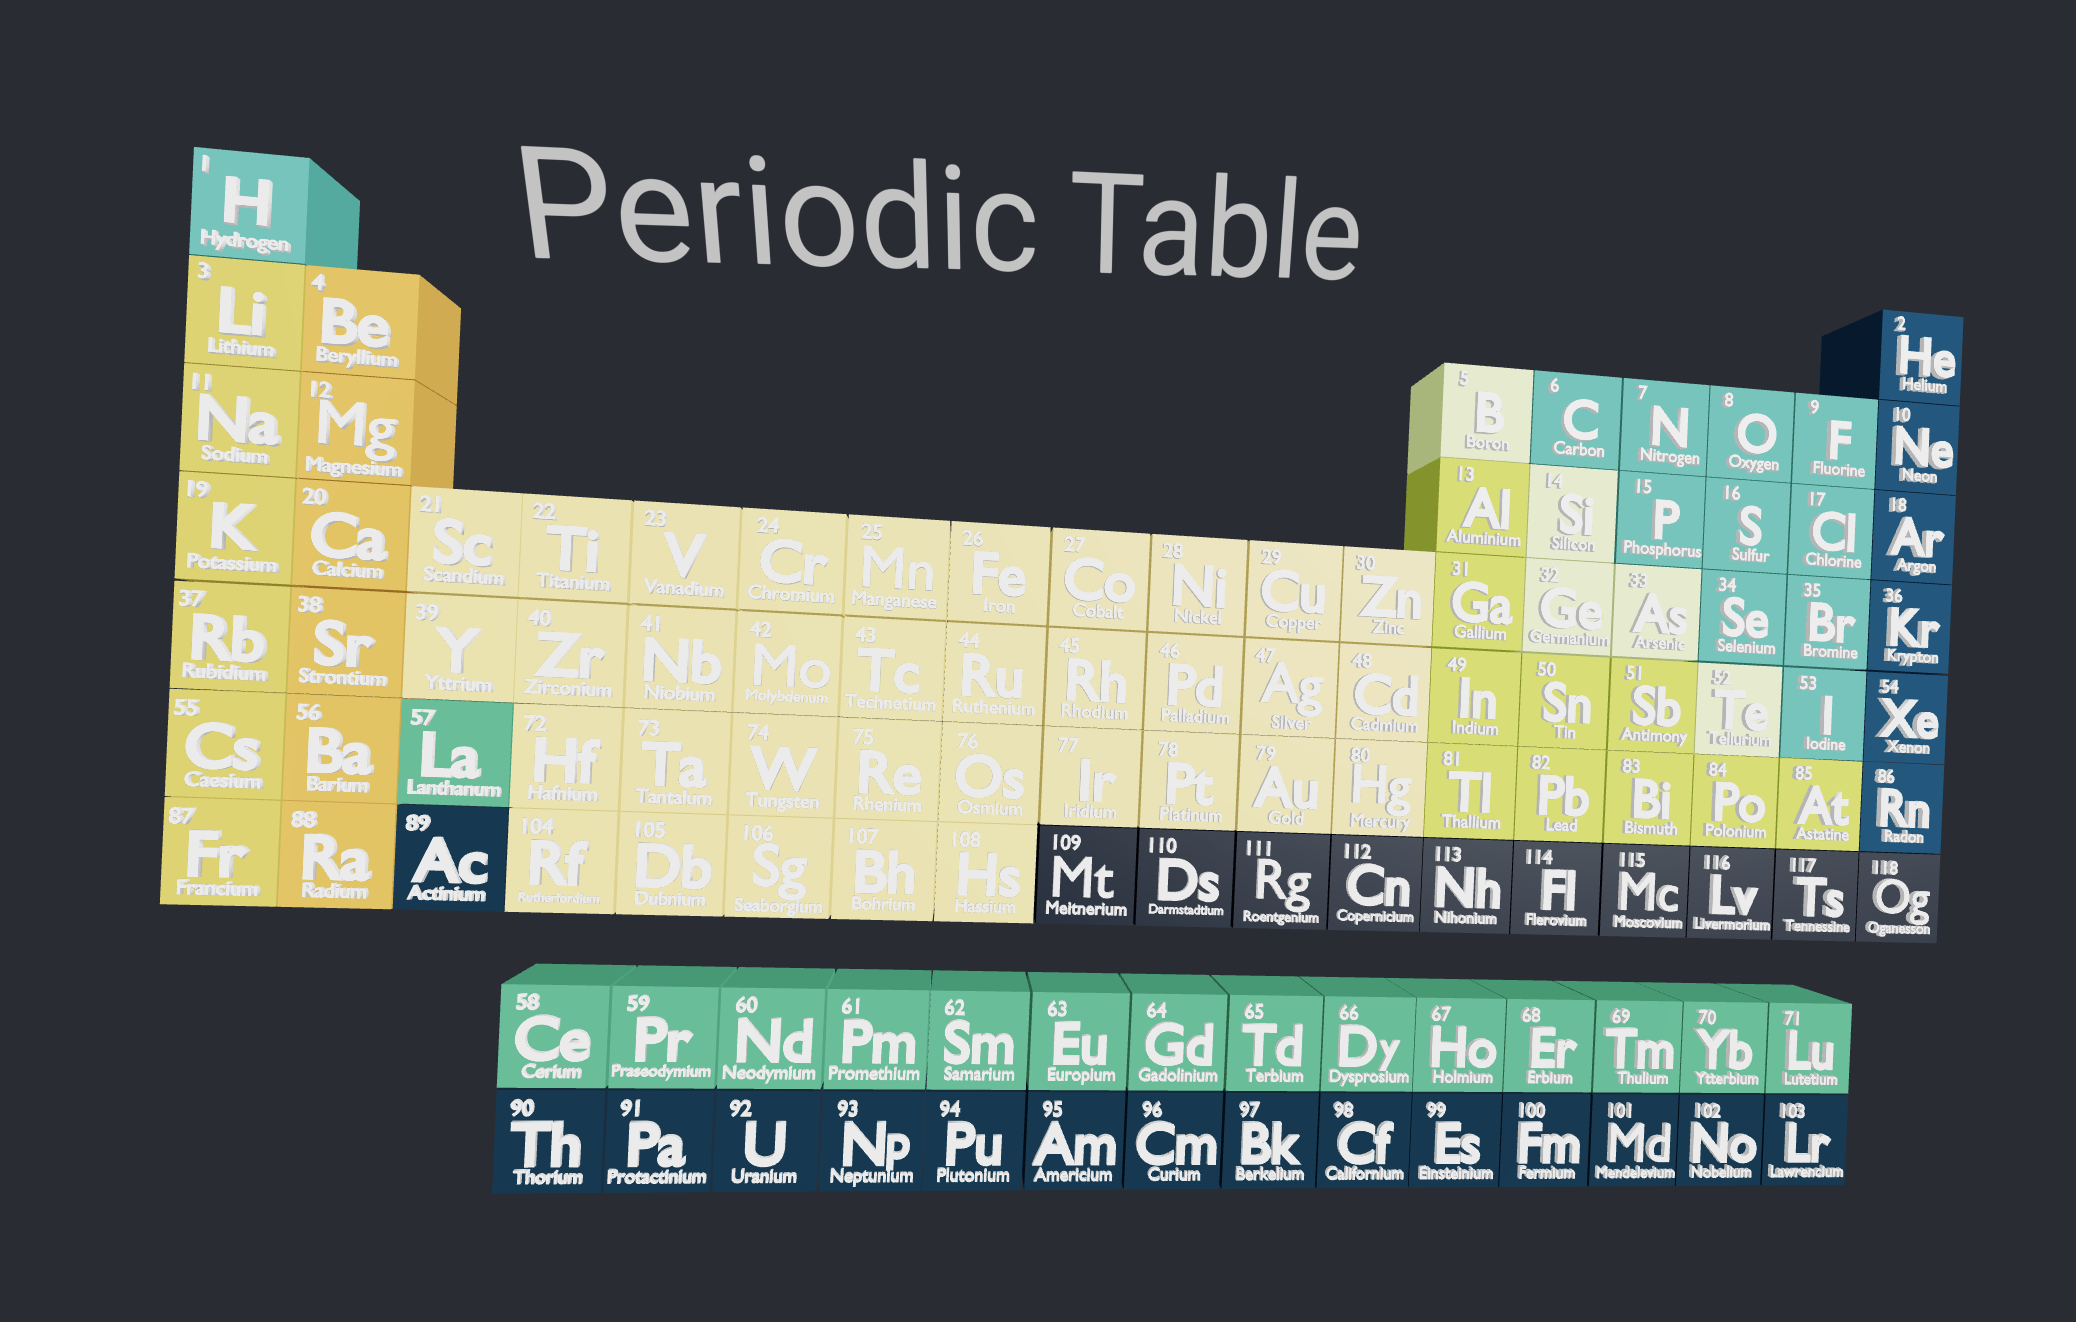
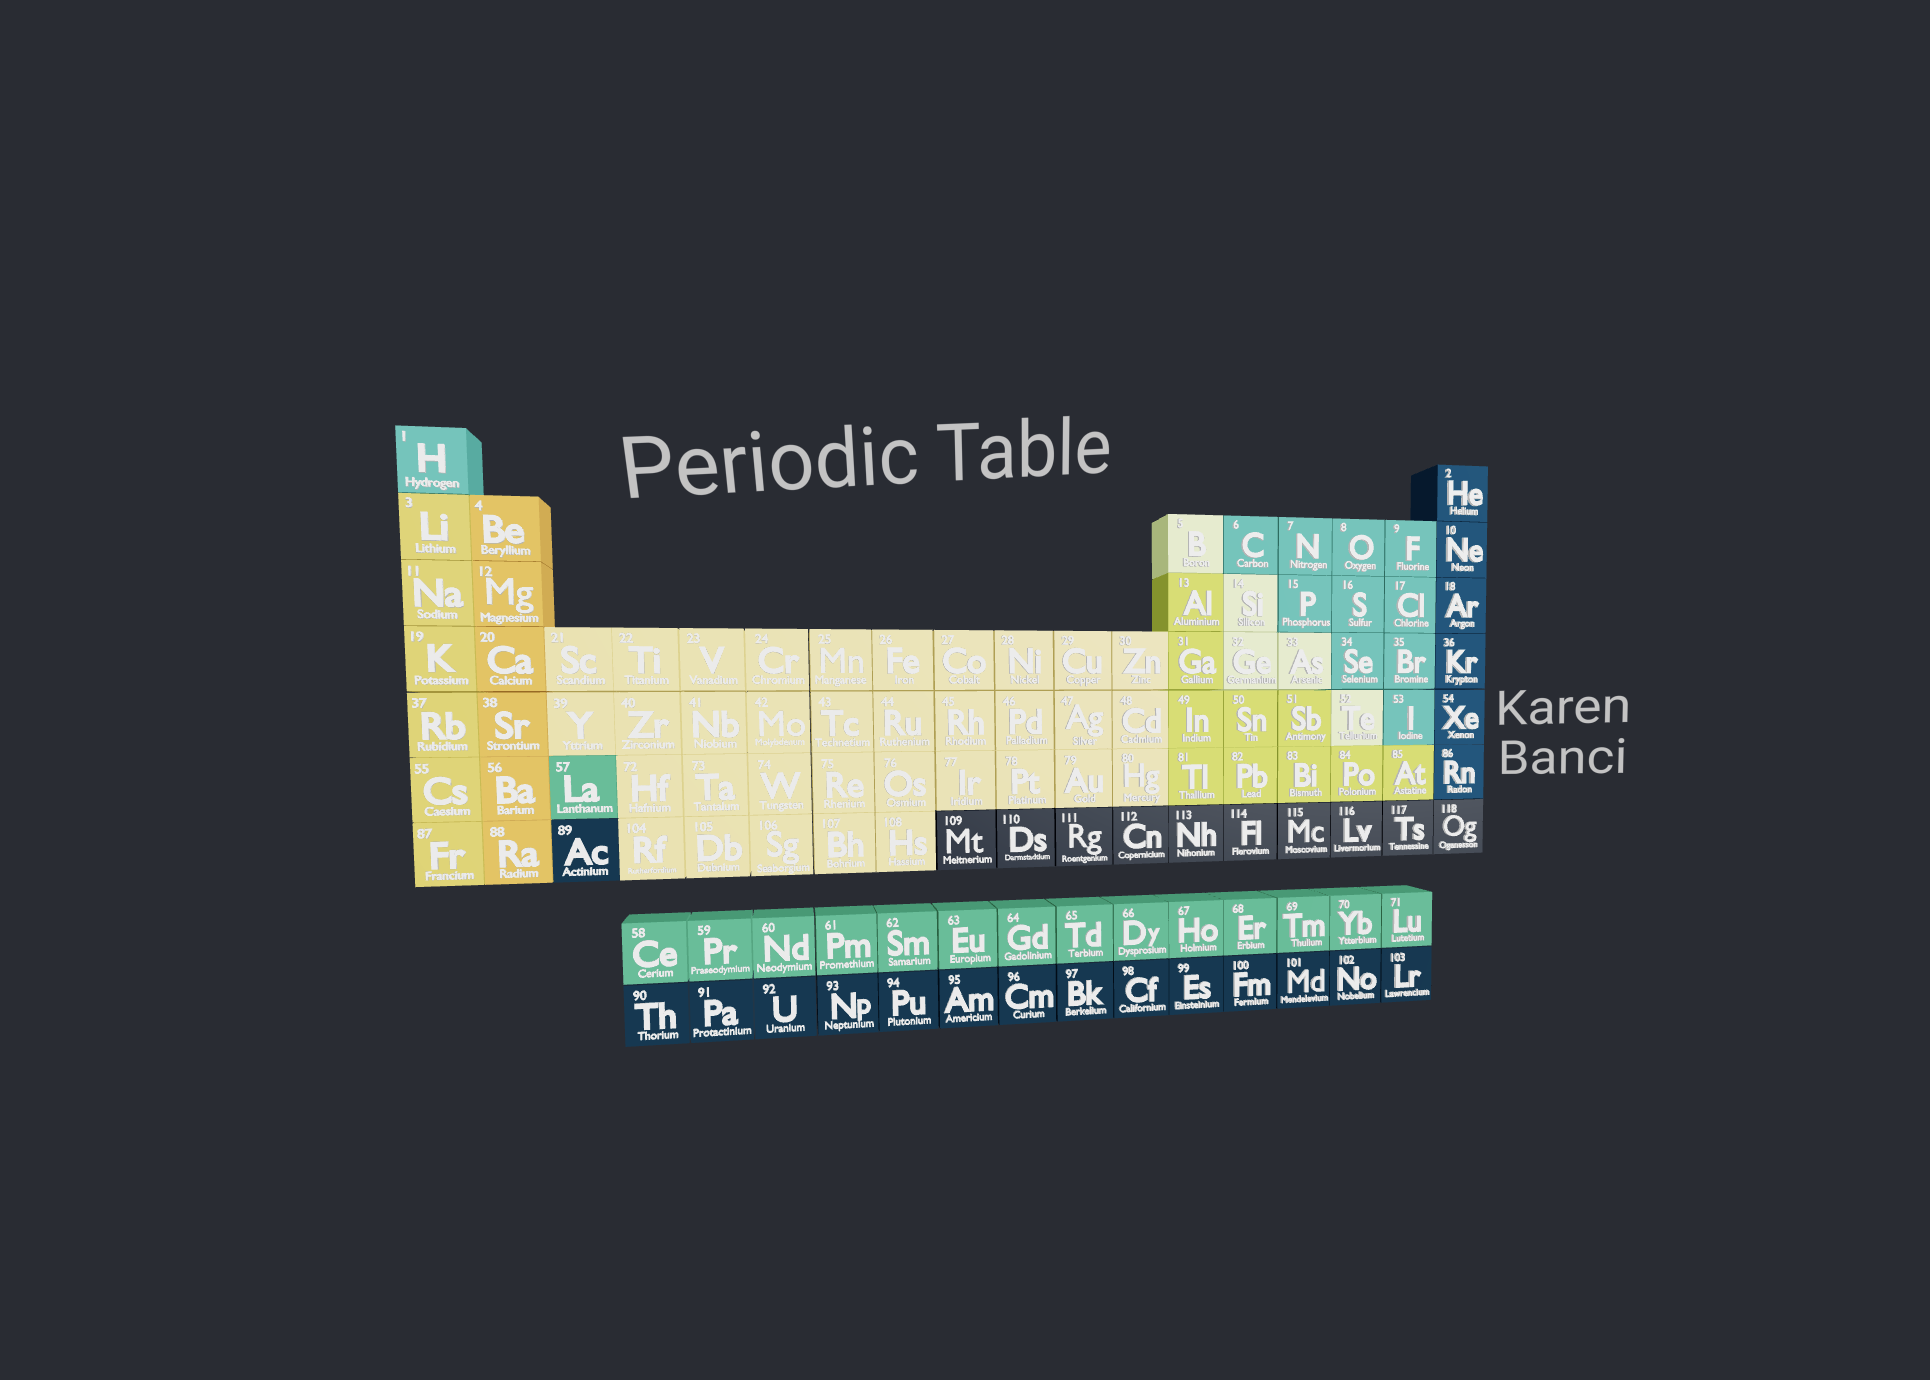
update project images to use local paths and clean up formatting

diff --git a/src/pages/Projects.tsx b/src/pages/Projects.tsx
@@ -1,59 +1,66 @@
-import { motion } from 'framer-motion';
-import { Link } from 'react-router-dom';
+import { motion } from "framer-motion";
+import { Link } from "react-router-dom";
 
 // Sample project data
 const projects = [
   {
     id: 1,
     title: "Eleva",
-    description: "Eleva is a modern website for a life coach empowering women through The ELEVA Method™ to align life and financial goals.",
+    description:
+      "Eleva is a modern website for a life coach empowering women through The ELEVA Method™ to align life and financial goals.",
     tags: ["Wix"],
-    image: "https://raw.githubusercontent.com/karenbanci/portfolio-images/refs/heads/main/eleva-home.webp",
-
+    image:
+      "https://raw.githubusercontent.com/karenbanci/portfolio-images/refs/heads/main/eleva-home.webp",
   },
   {
     id: 2,
     title: "Letih Beauty",
-    description: "LETIH BEAUTY is a serene and elegant website created for a boutique beauty and wellness brand offering holistic treatments for face and body.",
+    description:
+      "LETIH BEAUTY is a serene and elegant website created for a boutique beauty and wellness brand offering holistic treatments for face and body.",
     tags: ["JavaScript", "React", "Contentful", "Airtable"],
-    image: "https://raw.githubusercontent.com/karenbanci/portfolio-images/refs/heads/main/letih-home.webp",
-
+    image:
+      "https://raw.githubusercontent.com/karenbanci/portfolio-images/refs/heads/main/letih-home.webp",
   },
   {
     id: 3,
     title: "Jairo Honorio",
-    description: "This personal portfolio was created for Jairo Honorio, a Senior Software Engineer at Google.",
+    description:
+      "This personal portfolio was created for Jairo Honorio, a Senior Software Engineer at Google.",
     tags: ["Jekill", "React", "JavaScript", "AMP"],
-    image: "https://raw.githubusercontent.com/karenbanci/portfolio-images/refs/heads/main/jairo-home.webp",
-
+    image:
+      "https://raw.githubusercontent.com/karenbanci/portfolio-images/refs/heads/main/jairo-home.webp",
   },
   {
     id: 4,
     title: "Slap of life (Global Game Jam)",
-    description: "This group project, inspired by the Global Game Jam at USV University of Silicon Valley, is centered on Make me laugh.",
+    description:
+      "This group project, inspired by the Global Game Jam at USV University of Silicon Valley, is centered on Make me laugh.",
     tags: ["Blender", "Unreal Engine", "Game Jam"],
-    image: "https://raw.githubusercontent.com/karenbanci/portfolio-images/refs/heads/main/slap-cover.webp",
-
-  },  {
+    image:
+      "https://raw.githubusercontent.com/karenbanci/portfolio-images/refs/heads/main/slap-cover.webp",
+  },
+  {
     id: 5,
     title: "Periodic Table 3D",
-    description: "An interactive 3D periodic table built with React and Three.js, showcasing elements in a visually appealing way.",
+    description:
+      "An interactive 3D periodic table built with React and Three.js, showcasing elements in a visually appealing way.",
     tags: ["Three.js", "WebGL", "React", "Blender"],
-    image: "https://raw.githubusercontent.com/karenbanci/portfolio-images/refs/heads/main/periodic-table-project.png",
-
-  },  {
+    image: "/images/periodic-table-project.png",
+  },
+  {
     id: 6,
     title: "Marble Race - Game React Three FIber",
-    description: "A complete UX/UI overhaul of an e-commerce platform with 3D product visualization.",
+    description:
+      "A complete UX/UI overhaul of an e-commerce platform with 3D product visualization.",
     tags: ["React", "React Three Fiber", "Three.js", "Vite"],
-    image: "https://raw.githubusercontent.com/karenbanci/portfolio-images/refs/heads/main/marble-race-game.png"
-
-  }
+    image:
+      "https://raw.githubusercontent.com/karenbanci/portfolio-images/refs/heads/main/marble-race-game.png",
+  },
 ];
 
 const fadeIn = {
   hidden: { opacity: 0, y: 20 },
-  visible: { opacity: 1, y: 0, transition: { duration: 0.6, ease: "easeOut" } }
+  visible: { opacity: 1, y: 0, transition: { duration: 0.6, ease: "easeOut" } },
 };
 
 const staggerContainer = {
@@ -62,13 +69,12 @@ const staggerContainer = {
     opacity: 1,
     transition: {
       staggerChildren: 0.1,
-      delayChildren: 0.2
-    }
-  }
+      delayChildren: 0.2,
+    },
+  },
 };
 
-const ProjectCard = ({ project, index }: { project: any, index: number }) => {
-
+const ProjectCard = ({ project, index }: { project: any; index: number }) => {
   return (
     <motion.div
       className="bg-gray-900/40 backdrop-blur-sm rounded-xl overflow-hidden shadow-xl hover:shadow-pink-500/10 transition-all duration-300"
@@ -76,9 +82,9 @@ const ProjectCard = ({ project, index }: { project: any, index: number }) => {
       whileHover={{ y: -10, transition: { duration: 0.2 } }}
     >
       <Link
-          to={`/project/${project.id}`}
-          className="inline-block text-sm font-medium text-pink-500 hover:text-pink-400 transition-colors w-full"
-        >
+        to={`/project/${project.id}`}
+        className="inline-block text-sm font-medium text-pink-500 hover:text-pink-400 transition-colors w-full"
+      >
         <div className="relative h-48 overflow-hidden">
           <img
             src={project.image}
@@ -91,8 +97,7 @@ const ProjectCard = ({ project, index }: { project: any, index: number }) => {
             </div>
           </div>
         </div>
-
-        </Link>
+      </Link>
 
       <div className="p-6">
         <h3 className="text-xl font-bold mb-2">{project.title}</h3>
@@ -121,8 +126,6 @@ const ProjectCard = ({ project, index }: { project: any, index: number }) => {
 };
 
 export default function Projects() {
-
-
   return (
     <div className="min-h-screen py-20 px-4 md:px-8">
       {/* Main content */}
@@ -143,8 +146,8 @@ export default function Projects() {
             className="text-xl text-gray-300 max-w-3xl mx-auto"
             variants={fadeIn}
           >
-            Explore my portfolio of creative development work, from interactive 3D
-            experiences to user interface designs.
+            Explore my portfolio of creative development work, from interactive
+            3D experiences to user interface designs.
           </motion.p>
         </motion.div>
 

diff --git a/src/pages/ProjectDetail.tsx b/src/pages/ProjectDetail.tsx
@@ -102,11 +102,8 @@ const projects = [
     fullDescription:
       "This project involved creating a fully interactive 3D periodic table using React and Three.js. The table allows users to explore the properties of each element in a visually engaging way. The project was designed to be part of my portfolio and improve my skills in web development.",
     tags: ["Three.js", "WebGL", "React", "Blender"],
-    image:
-      "https://raw.githubusercontent.com/karenbanci/portfolio-images/refs/heads/main/periodic-table-project.png",
-    additionalImages: [
-      "https://raw.githubusercontent.com/karenbanci/portfolio-images/refs/heads/main/periodic-table-project2.png",
-    ],
+    image: "/images/periodic-table-project.png",
+    additionalImages: ["/images/periodic-table-project2.png"],
     shape: "sphere",
     color: "#FF0080",
     client: "Self Project",
